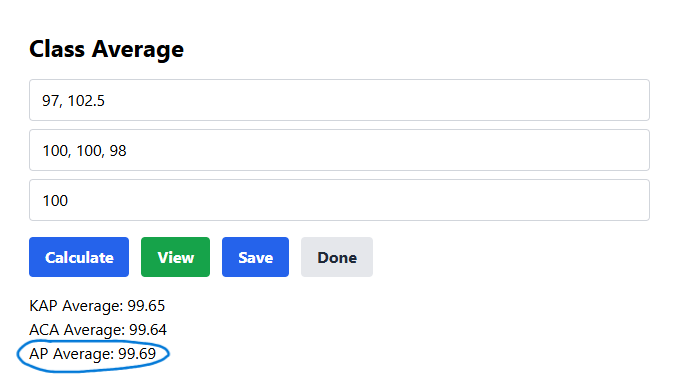
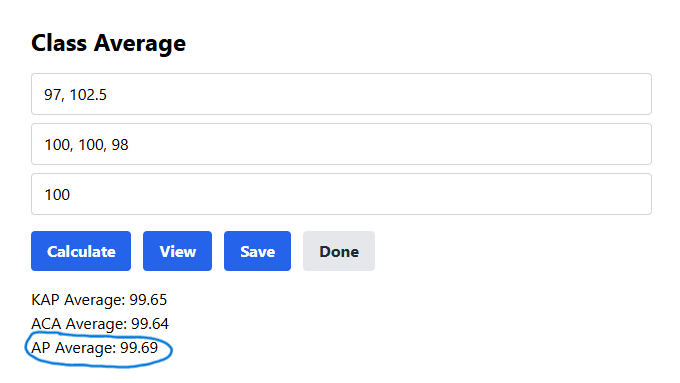
changed button colors

diff --git a/src/GradeAverageCalculator.js b/src/GradeAverageCalculator.js
@@ -153,7 +153,7 @@ function GradeAverageCalculator() {
           Calculate
         </button>
         <button
-          className="bg-green-600 hover:bg-green-900 text-white font-bold py-2 px-4 rounded ml-3"
+          className="bg-blue-600 hover:bg-blue-900 text-white font-bold py-2 px-4 rounded ml-3"
           onClick={handleViewSaved}
         >
           View
@@ -212,13 +212,13 @@ function GradeAverageCalculator() {
             )}
             <div className = "flex items-center justify-center">
             <button
-              className="bg-gray-300 hover:bg-gray-400 text-gray-800 font-bold py-2 px-4 rounded mt-3"
+              className="bg-blue-600 hover:bg-blue-900 text-white font-bold py-2 px-4 rounded mt-4"
               onClick={handleCloseSaved}
             >
               Close
             </button>
             <button
-              className="bg-red-600 hover:bg-red-900 text-white font-bold py-2 px-4 rounded ml-3 h-auto mt-3"
+              className="bg-gray-200 hover:bg-gray-300 text-gray-800 font-bold py-2 px-4 rounded ml-3 h-auto mt-4"
               onClick={handleUnsaveAll}
             >
               Clear

diff --git a/src/GPACalculator.js b/src/GPACalculator.js
@@ -166,7 +166,7 @@ function GPACalculator() {
           </button>
         ) }
         <button
-          className="bg-green-600 hover:bg-green-900 text-white font-bold py-2 px-4 rounded ml-3"
+          className="bg-blue-600 hover:bg-blue-900 text-white font-bold py-2 px-4 rounded ml-3"
           onClick={handleViewSaved}
         >
           View
@@ -227,13 +227,13 @@ function GPACalculator() {
             )}
             <div className = "flex items-center justify-center">
             <button
-              className="bg-gray-300 hover:bg-gray-400 text-gray-800 font-bold py-2 px-4 rounded mt-3"
+              className="bg-blue-600 hover:bg-blue-900 text-white font-bold py-2 px-4 rounded mt-4"
               onClick={handleCloseSaved}
             >
               Close
             </button>
             <button
-              className="bg-red-600 hover:bg-red-900 text-white font-bold py-2 px-4 rounded ml-3 h-auto mt-3"
+              className="bg-gray-200 hover:bg-gray-300 text-gray-800 font-bold py-2 px-4 rounded ml-3 h-auto mt-4"
               onClick={handleUnsaveAll}
             >
               Clear

diff --git a/src/SemesterCalculator.js b/src/SemesterCalculator.js
@@ -144,7 +144,7 @@ function SemesterCalculator() {
   </button>
 )}
            <button
-        className="bg-green-600 hover:bg-green-900 text-white font-bold py-2 px-4 rounded ml-3"
+        className="bg-blue-600 hover:bg-blue-900 text-white font-bold py-2 px-4 rounded ml-3"
         onClick={handleViewSaved}
       >
         View
@@ -228,13 +228,13 @@ function SemesterCalculator() {
       )}
       <div className = "flex items-center justify-center">
             <button
-              className="bg-gray-300 hover:bg-gray-400 text-gray-800 font-bold py-2 px-4 rounded mt-3"
+              className="bg-blue-600 hover:bg-blue-900 text-white font-bold py-2 px-4 rounded mt-4"
               onClick={handleCloseSaved}
             >
               Close
             </button>
             <button
-              className="bg-red-600 hover:bg-red-900 text-white font-bold py-2 px-4 rounded ml-3 h-auto mt-3"
+              className="bg-gray-200 hover:bg-gray-300 text-gray-800 font-bold py-2 px-4 rounded ml-3 h-auto mt-4"
               onClick={handleUnsaveAll}
             >
               Clear
